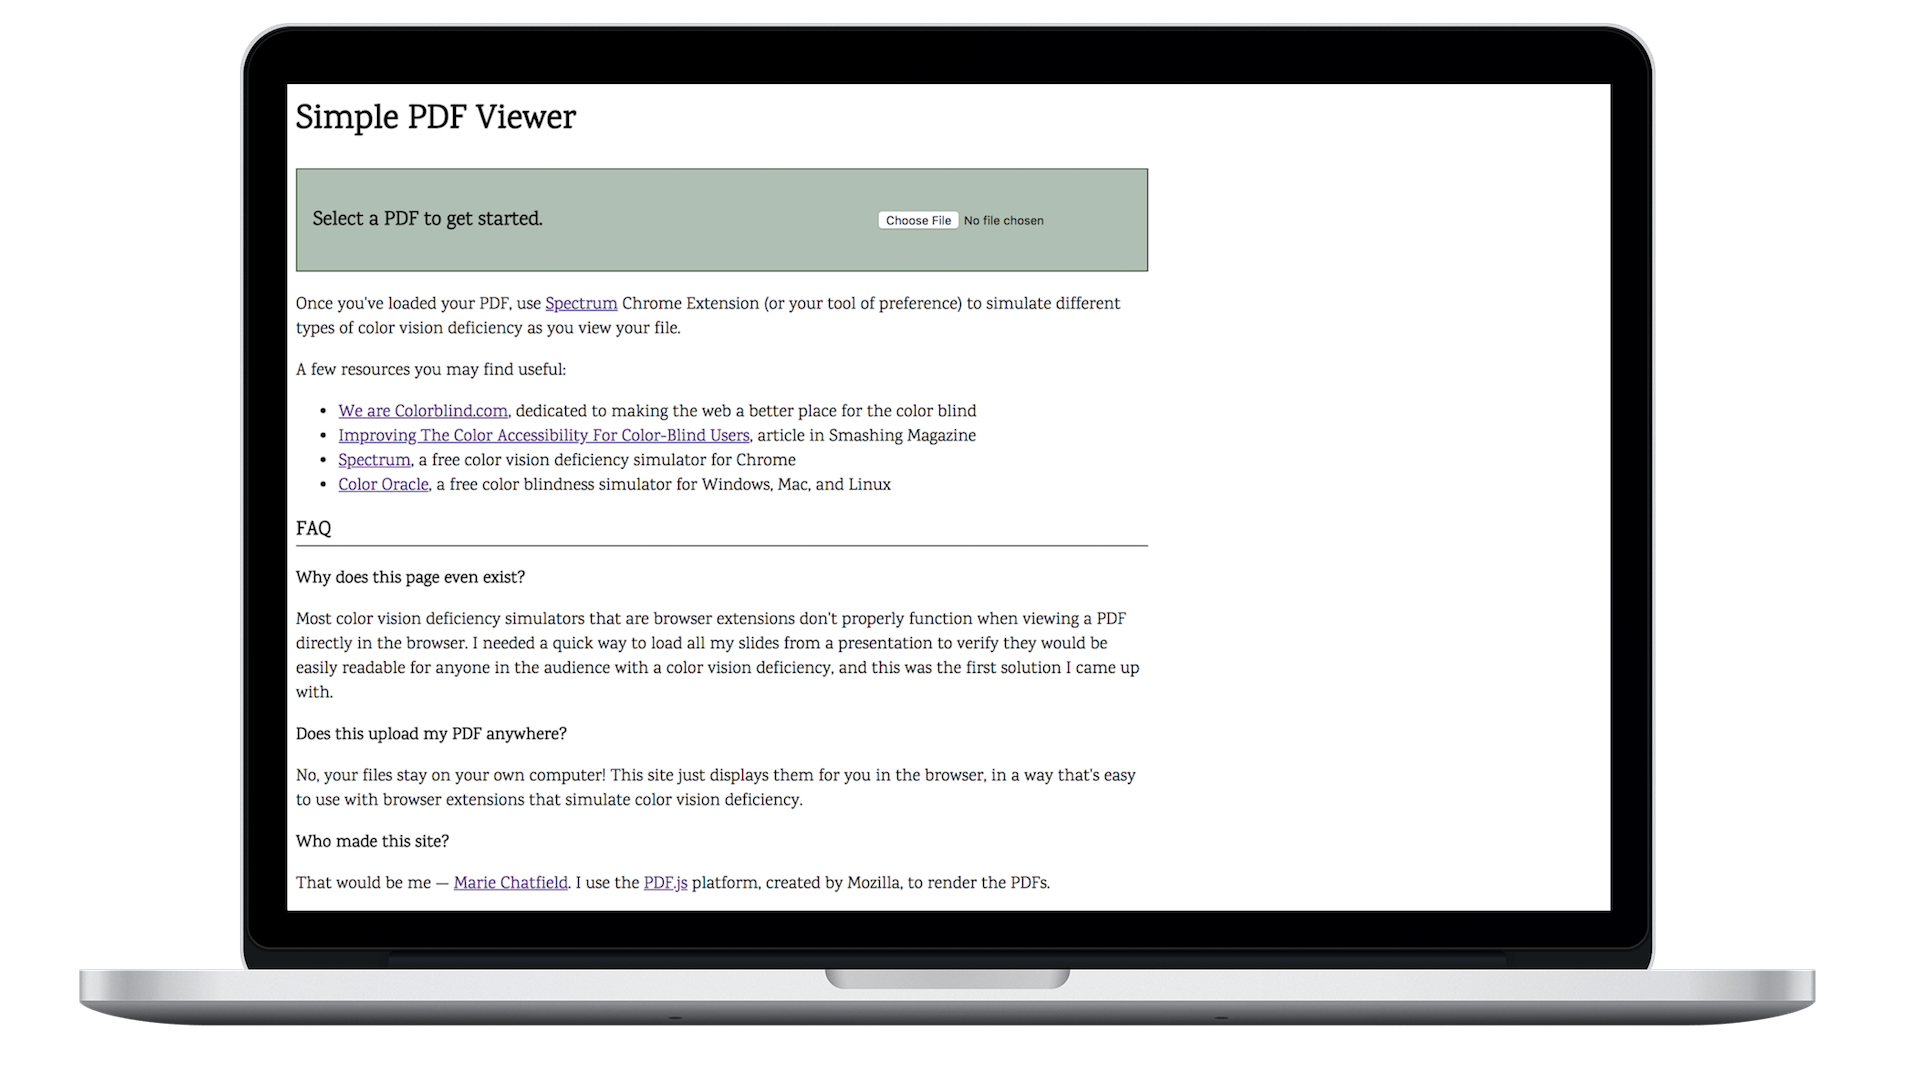
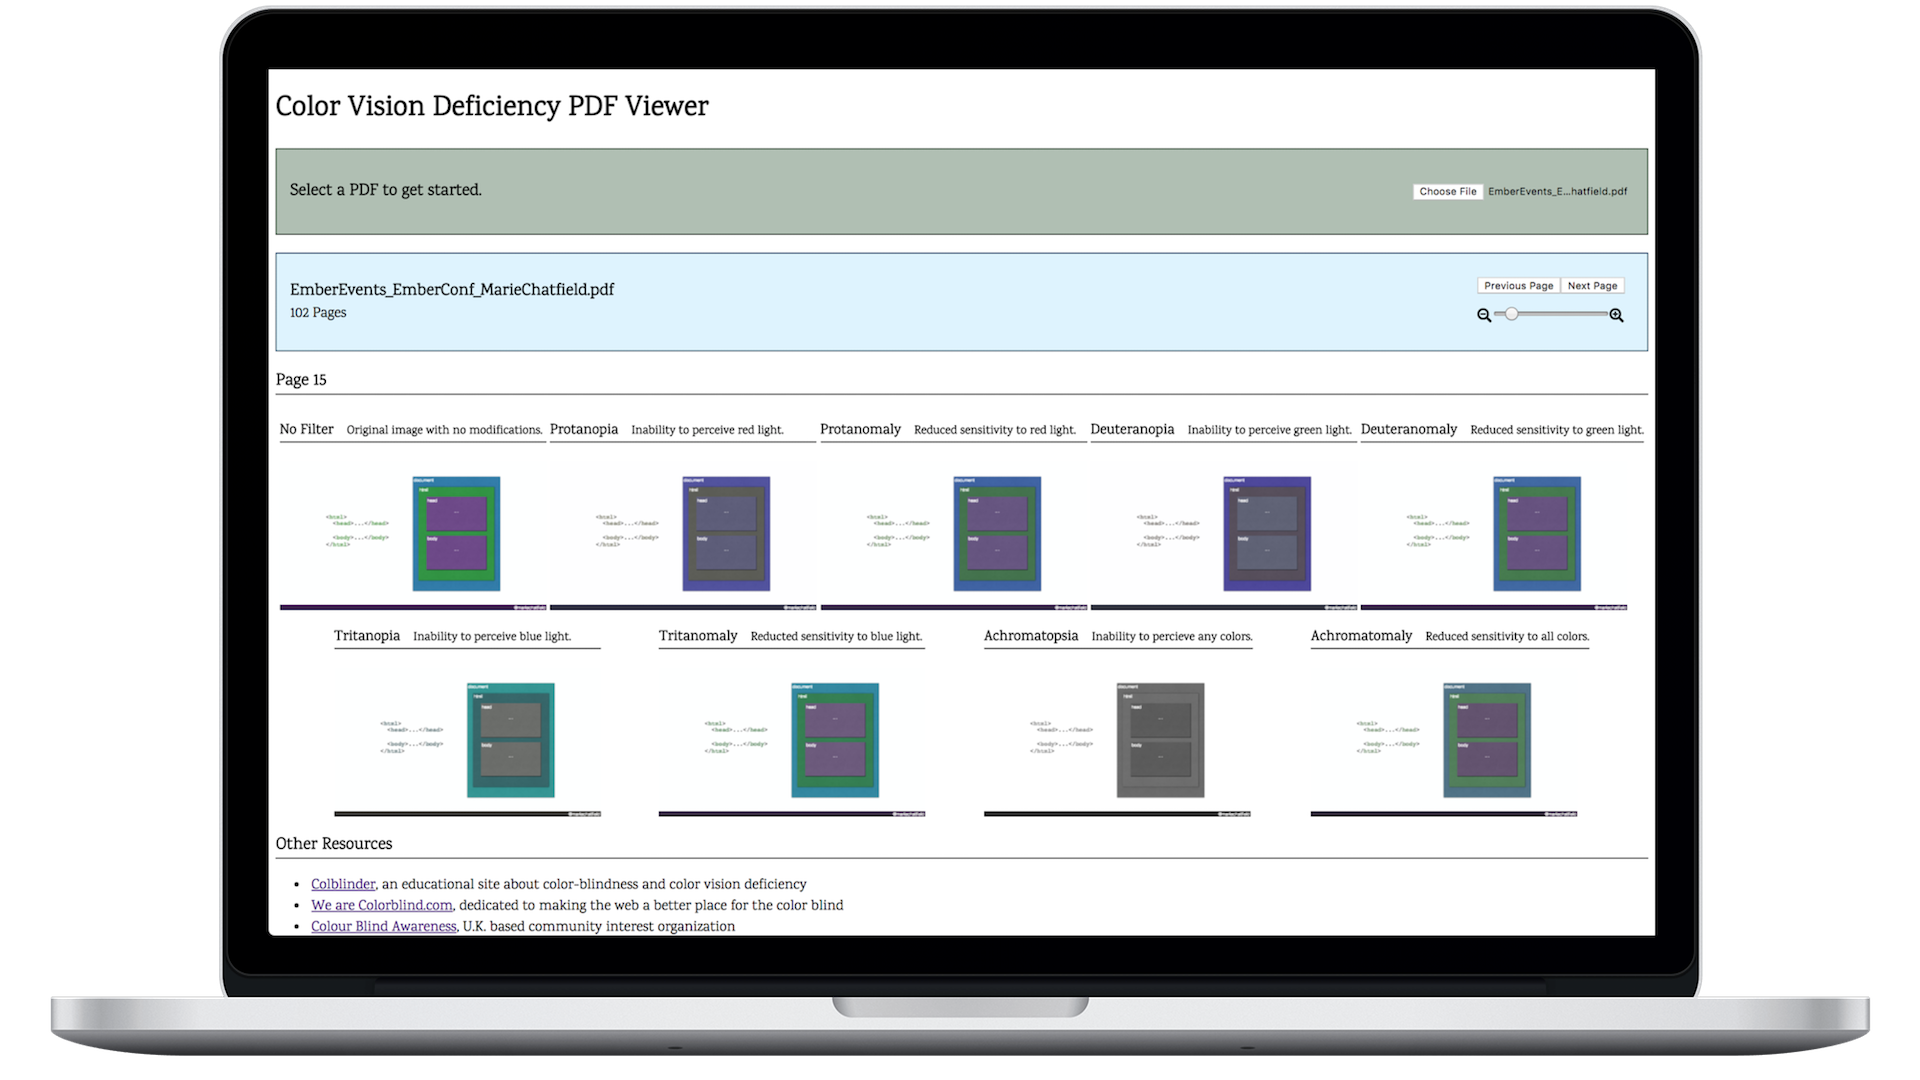
Update PDF viewer screenshot and description.

diff --git a/projects/index.md b/projects/index.md
@@ -32,18 +32,16 @@ Consists of an Ember client side app and a tiny Express backend server. [See the
   </div>
 
   <div class="content__section__text" markdown="block">
-#### [Simple PDF Viewer](http://mariechatfield.com/simple-pdf-viewer)
+#### [Color Vision Deficiency PDF Viewer](http://mariechatfield.com/simple-pdf-viewer)
 ##### March 2018
 
-__View PDFs in the browser to easily check against color vision deficiency simulators.__
+__Preview PDFs in the browser with eight different variations of color vision deficiency.__
 
-Most color vision deficiency simulators that are browser extensions don't properly function when viewing a PDF directly in the browser.
-
-View all pages of a PDF in the browser and use your color vision deficiency simulator of choice to make sure that your content is accessible for color blind people.
+View each page of a PDF with filters that simulate eight different types of color vision deficiency to verify that your content is accessible for color blind people.
 
 Includes recommended resources for further reading and for color vision deficiency simulator software.
 
-Uses the [PDF.js](https://mozilla.github.io/pdf.js/) platform, created by Mozilla, to render the PDFs. [See the source code and contribute.](https://github.com/mariechatfield/simple-pdf-viewer)
+Uses the [PDF.js](https://mozilla.github.io/pdf.js/) platform (created by Mozilla) and the color blind SVG filters found in the [colourblind](https://github.com/Altreus/colourblind) bookmarklet (created by [Alastair Douglas](https://github.com/Altreus)). [See the source code and contribute.](https://github.com/mariechatfield/simple-pdf-viewer)
 
   </div>
 </div>
